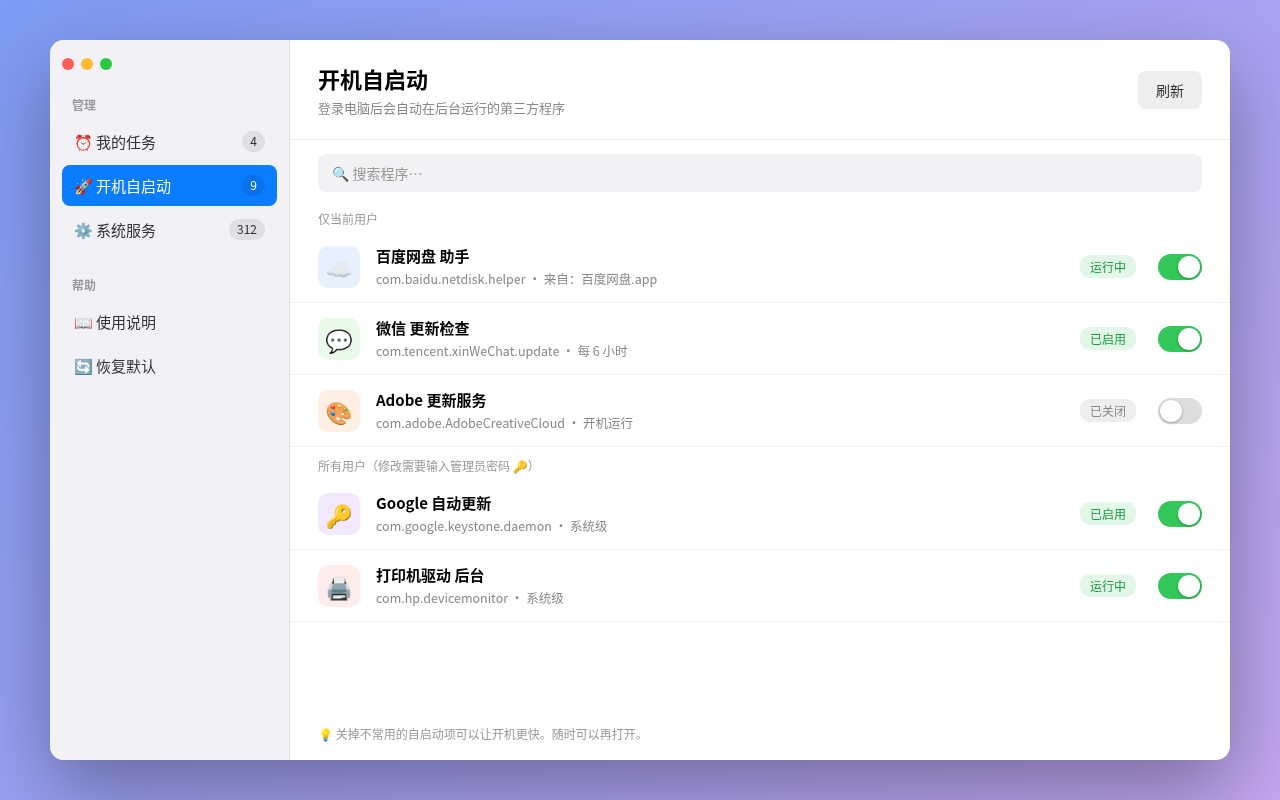
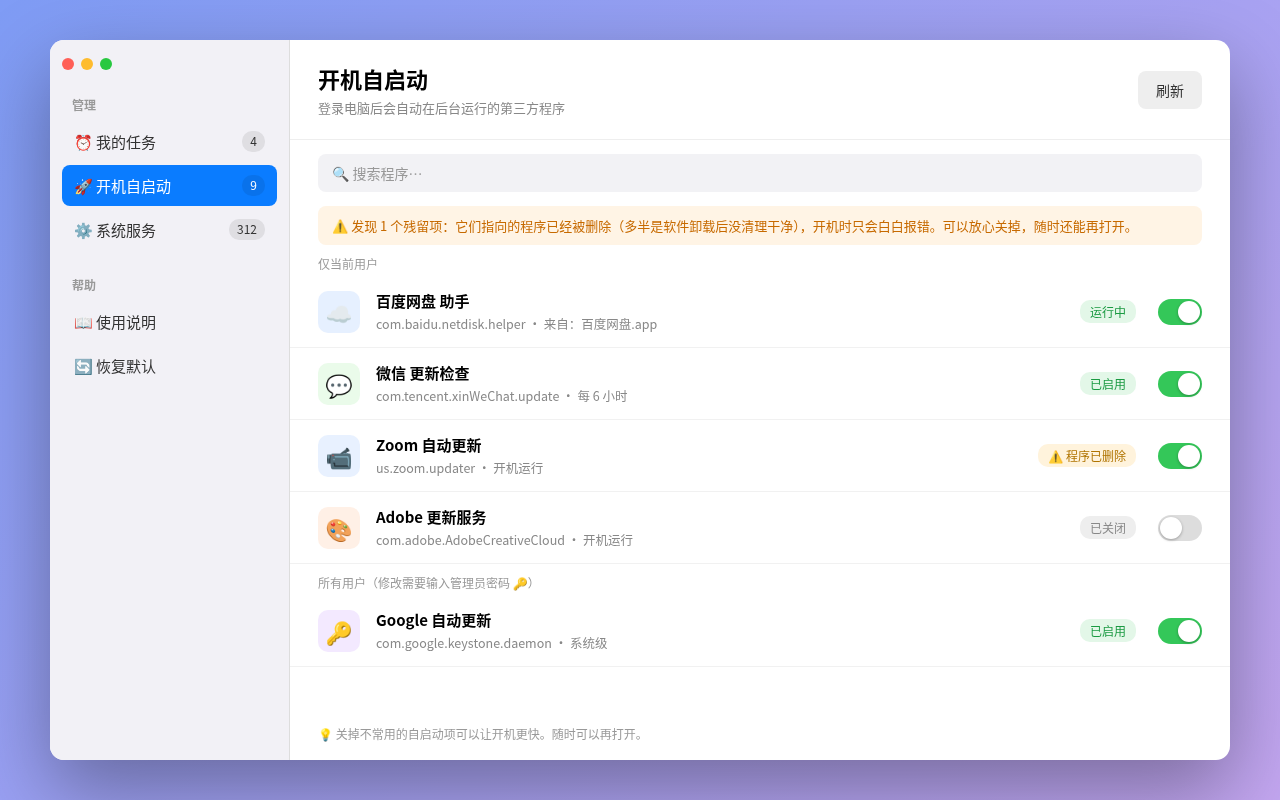
0.3.3：更新说明、README 与开机自启动截图

diff --git a/docs/release-notes/0.3.3.md b/docs/release-notes/0.3.3.md
@@ -1,0 +1,5 @@
+- 「开机自启动」会标出残留项了：软件已经卸载、但后台配置还留着的，会显示橙色「⚠ 程序已删除」，页面顶部会提醒你一共有几个，可以放心关掉
+- 点开残留项，详情页会用大白话说明是怎么回事、该怎么处理（关掉，或在访达里把配置文件移到废纸篓）
+- 只检查第三方服务，苹果自带的服务不受影响；拿不准的一律不标，也不会自动删任何东西
+- 编辑服务时点「保存」或「从备份恢复」，现在在后台进行，会显示转圈，界面不再卡住
+- 内部代码更稳了，消除了一批并发相关的隐患
